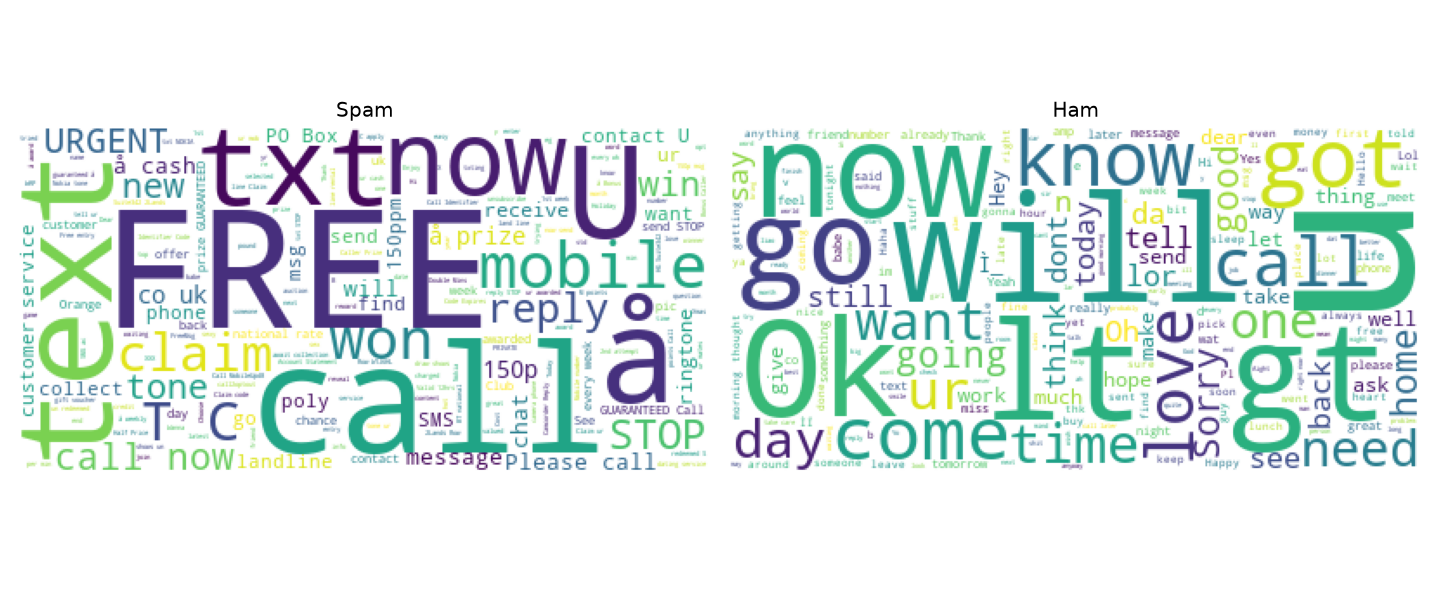
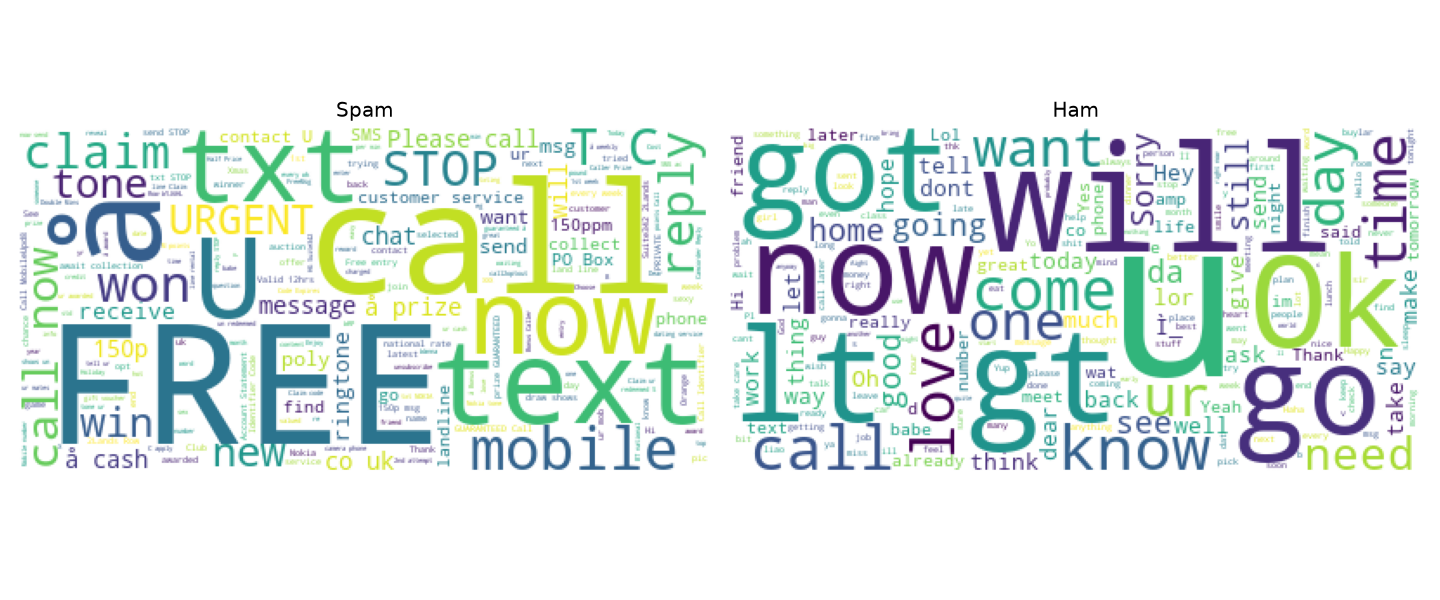
added some comparisons to the existing svm model

diff --git a/sms.py b/sms.py
@@ -26,9 +26,13 @@ from sklearn.metrics import (
     accuracy_score, classification_report, confusion_matrix,
     ConfusionMatrixDisplay, precision_score, recall_score, f1_score,
 )
-
 from nltk.corpus import stopwords
 from nltk.stem import WordNetLemmatizer
+from sklearn.naive_bayes import MultinomialNB
+from sklearn.linear_model import LogisticRegression
+from sklearn.ensemble import RandomForestClassifier
+from sklearn.neighbors import KNeighborsClassifier
+from sklearn.tree import DecisionTreeClassifier
 
 
 # ---------------------------------------------------------------------------
@@ -190,6 +194,7 @@ def make_predictor(model):
 # ---------------------------------------------------------------------------
 # Main
 # ---------------------------------------------------------------------------
+
 def main():
     ensure_nltk_data()
 
@@ -206,10 +211,81 @@ def main():
     print("\nTraining model...")
     model = train_and_evaluate(df)
 
+    print("\nComparing models...")
+    compare_models(df)
+
     print("\n=== Sanity checks ===")
     predict_sms = make_predictor(model)
     print(predict_sms("Congratulations! You have won a free iPhone. Click here now."))
     print(predict_sms("Hi, are we meeting tomorrow at 3 PM?"))
+
+
+def compare_models(df, outdir="outputs"):
+    """Train several classifiers on the same split and compare test metrics."""
+    import os, time
+    os.makedirs(outdir, exist_ok=True)
+
+    X = df["clean_message"]
+    y = df["label"]
+
+    X_train, X_test, y_train, y_test = train_test_split(
+        X, y, test_size=0.20, random_state=42, stratify=y
+    )
+
+    # Each entry: (name, classifier, needs_scaled_features?)
+    models = {
+        "Linear SVM":         LinearSVC(C=1),
+        "Naive Bayes":        MultinomialNB(),
+        "Logistic Regression": LogisticRegression(max_iter=1000),
+        "Decision Tree":      DecisionTreeClassifier(random_state=42),
+        "Random Forest":      RandomForestClassifier(n_estimators=100, random_state=42, n_jobs=-1),
+        "KNN (k=5)":          KNeighborsClassifier(n_neighbors=5),
+    }
+
+    results = []
+    for name, clf in models.items():
+        pipe = Pipeline([
+            ("tfidf", TfidfVectorizer(max_features=5000, ngram_range=(1, 2))),
+            ("clf", clf),
+        ])
+        t0 = time.time()
+        pipe.fit(X_train, y_train)
+        train_time = time.time() - t0
+
+        pred = pipe.predict(X_test)
+
+        results.append({
+            "Model": name,
+            "Accuracy": accuracy_score(y_test, pred),
+            "Precision": precision_score(y_test, pred),
+            "Recall": recall_score(y_test, pred),
+            "F1": f1_score(y_test, pred),
+            "Train (s)": round(train_time, 2),
+        })
+
+    results_df = pd.DataFrame(results).sort_values("F1", ascending=False)
+    print("\n=== Model Comparison ===")
+    print(results_df.to_string(index=False))
+
+    # Bar chart
+    fig, ax = plt.subplots(figsize=(10, 5))
+    metrics = ["Accuracy", "Precision", "Recall", "F1"]
+    x = np.arange(len(results_df))
+    width = 0.2
+    for i, m in enumerate(metrics):
+        ax.bar(x + i * width, results_df[m], width, label=m)
+    ax.set_xticks(x + width * 1.5)
+    ax.set_xticklabels(results_df["Model"], rotation=20, ha="right")
+    ax.set_ylim(0.7, 1.0)
+    ax.set_ylabel("Score")
+    ax.set_title("Classifier Comparison (same TF-IDF, same split)")
+    ax.legend()
+    plt.tight_layout()
+    plt.savefig(f"{outdir}/model_comparison.png", dpi=120)
+    plt.close(fig)
+
+    return results_df
+
 
 
 if __name__ == "__main__":
